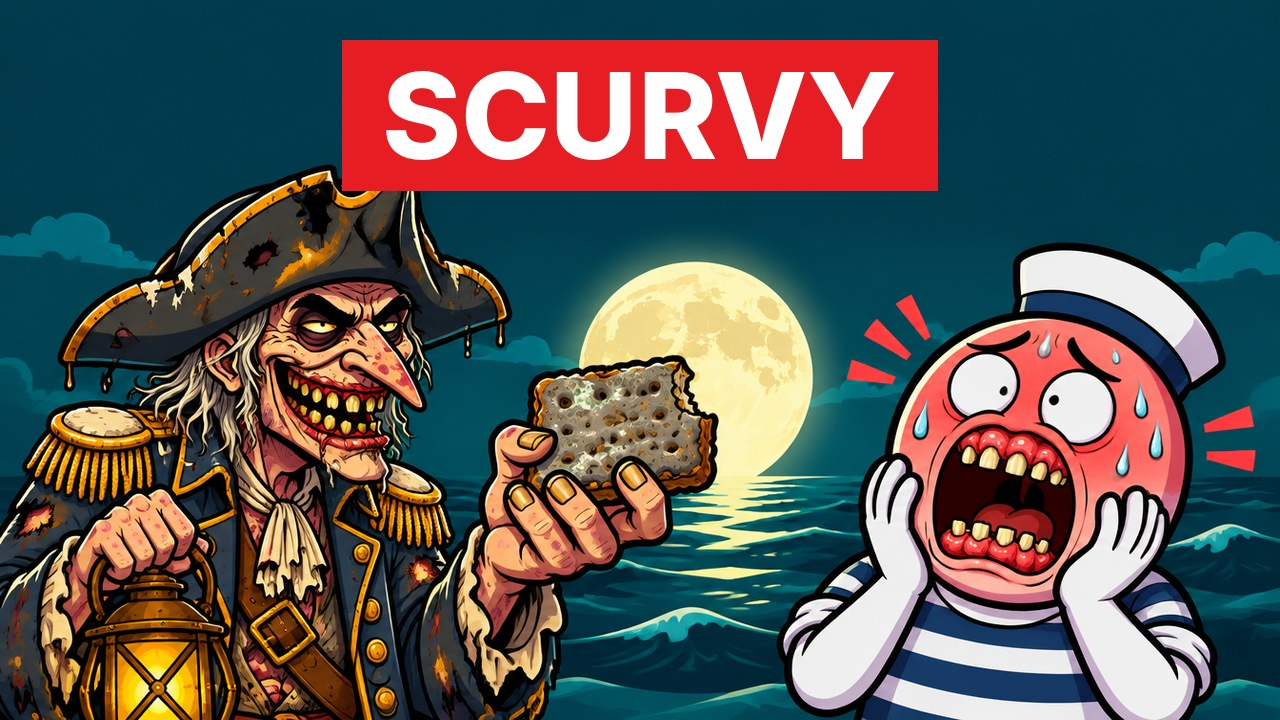
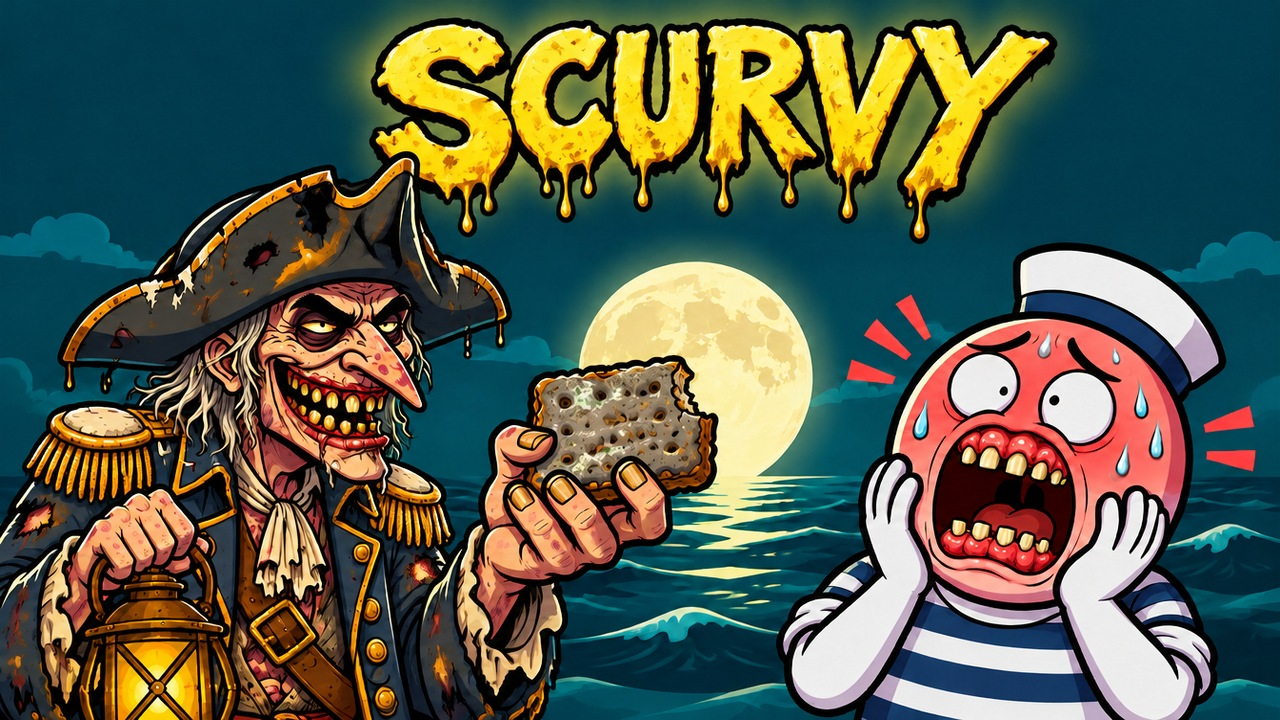
Scurvy thumbnails: hand-lettered text drawn into the art
Claude-Session: https://claude.ai/code/session_01TNc2K4iQhF6FRvCx2VQdik

diff --git a/channel/plague/EPISODE_TEMPLATE.md b/channel/plague/EPISODE_TEMPLATE.md
@@ -46,7 +46,7 @@
 - Один-два персонажа КРУПНО (лицо на 50–60% кадра), эмоция гипертрофирована: слёзы, крик, пот, вылетающие зубы. Читается в размере 168×94.
 - Наш стикмен для обложки рисуется с мимикой (брови, рот, слёзы) — точки-глаза без эмоции не работают.
 - Яркий насыщенный фон (дневной свет, белый, бирюза, неон), не тёмно-коричневый.
-- Текста 0–3 слова либо одна плашка с названием болезни; не дублировать название ролика целиком.
+- Текста 0–3 слова либо одно название болезни; не дублировать название ролика целиком. Надпись рисует сама модель в стиле картинки (рукописные комикс-буквы, тот же контур), а не накладывается компьютерным шрифтом.
 - Злодей — вторым планом или рядом, понятный и мультяшный, не натуралистичный хоррор.
 - Сюжетная деталь-крючок (лимон, сухарь, кипяток), без мелких деталей.
 - Аудитория всё чаще ищет «[No AI]»: ручная, «живая» рисовка обложки важна.
